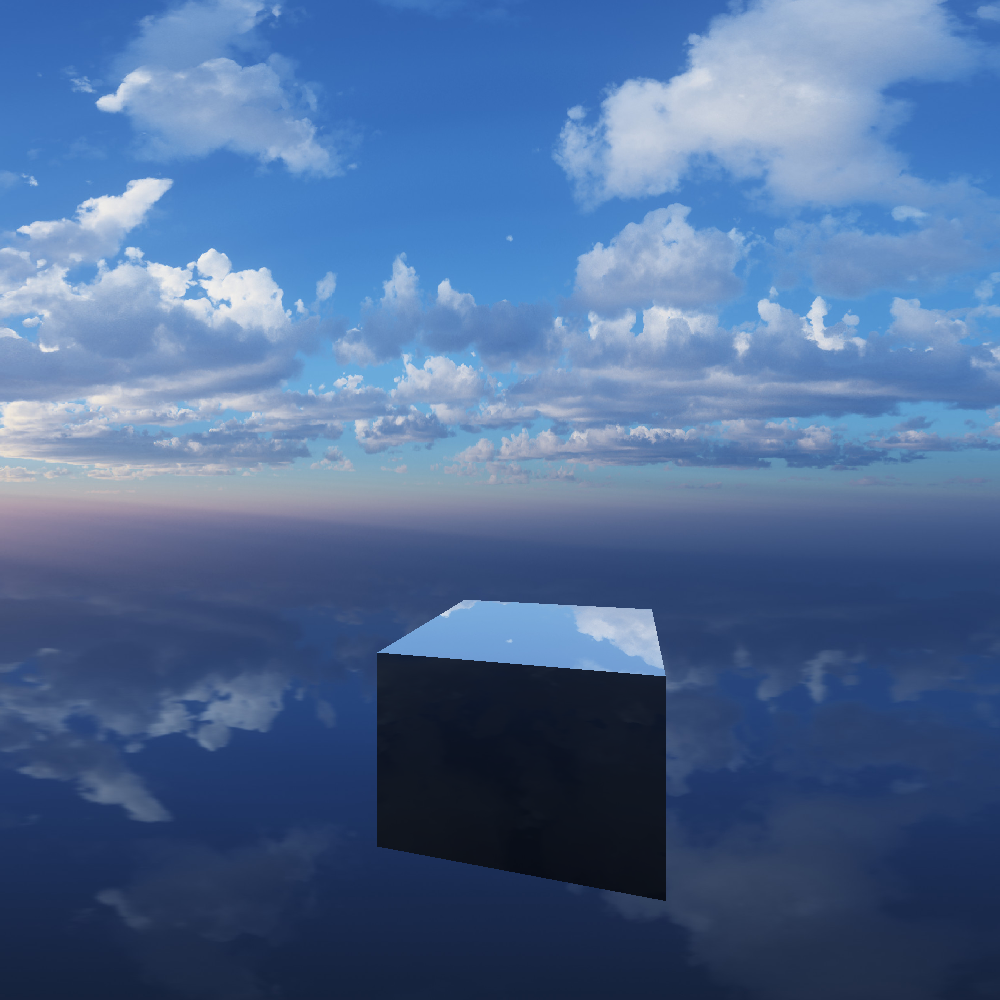
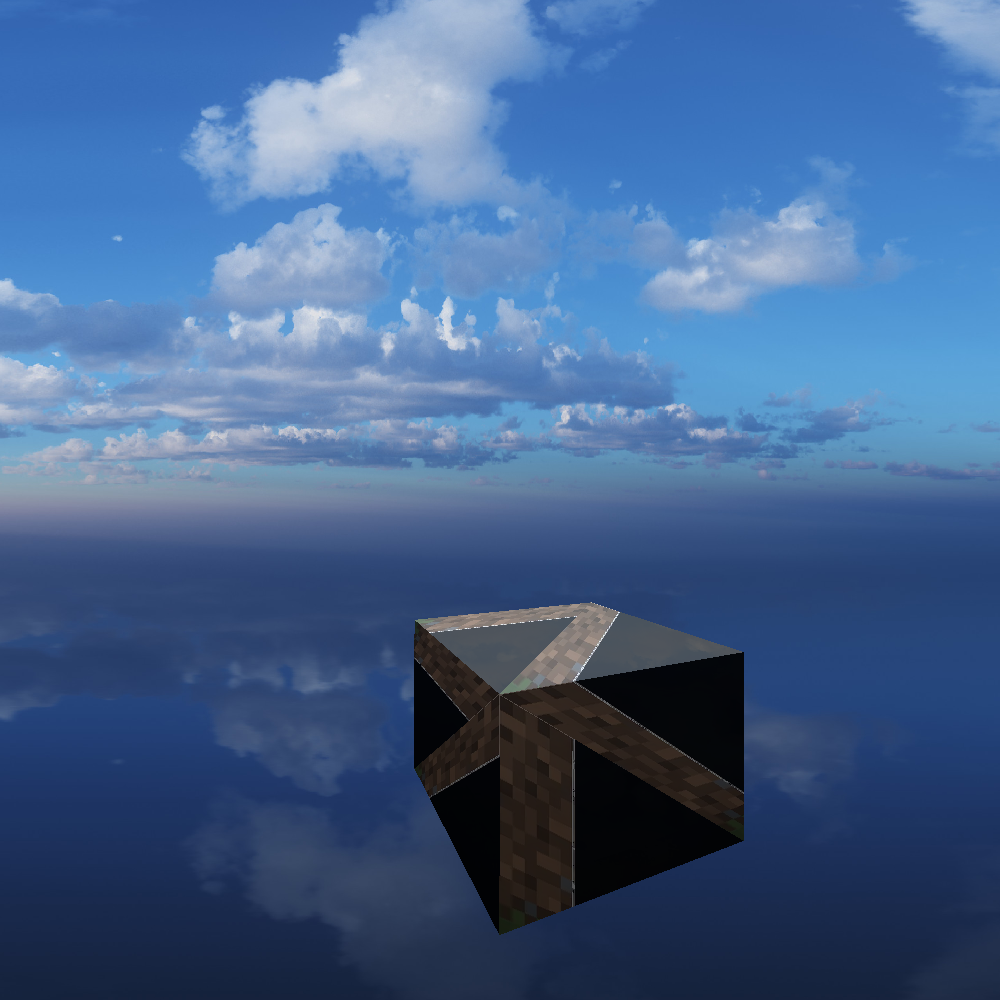
Temp

diff --git a/dev/src/preprocessing/obj_parser.c b/dev/src/preprocessing/obj_parser.c
@@ -13,6 +13,7 @@ void load_object(char* path, world* w, float scale, float pos[3], char* texture_
     int vert = 0;
     int tri = 0;
     int text_vert = 0;
+    int norm_vert = 0;
     //size_t norm = 0;
     //size_t texture = 0;
 
@@ -26,6 +27,8 @@ void load_object(char* path, world* w, float scale, float pos[3], char* texture_
                 vert++;
             if(line[1] == 't')
                 text_vert++;
+            if(line[1] == 'n')
+                norm_vert++;
         }
         else if (line[0] == 'f')
         {
@@ -43,13 +46,12 @@ void load_object(char* path, world* w, float scale, float pos[3], char* texture_
         return;
     }
     
-    printf("TEXT CVERT %d\n", text_vert);
-    mesh* new_mesh = build_mesh(vert, tri, text_vert);
+    mesh* new_mesh = build_mesh(vert, tri, text_vert, norm_vert);
     fseek(file, 0, SEEK_SET);
 
     float v[3];
     float vn[3];
-    int vt[2];
+    float vt[2];
     while(fgets(line, sizeof(line), file) != NULL)
     {
         if (line[0] == 'v')
@@ -61,29 +63,29 @@ void load_object(char* path, world* w, float scale, float pos[3], char* texture_
                 add_v(new_mesh, v);
             }
             if(line[1] == 't'){
-                sscanf(line, "vt %i %i", &vt[0], &vt[1]);
+                sscanf(line, "vt %f %f", &vt[0], &vt[1]);
                 add_vt(new_mesh, vt);
             }
             if(line[1] == 'n'){
                 sscanf(line, "vn %f %f %f", &vn[0], &vn[1], &vn[2]);
-                add_vt(new_mesh, vt);
+                add_vn(new_mesh, vn);
             }
         }
 
         if (line[0] == 'f' && line[1] == ' ')
         {
-            int nb_v;
+            int nb_v = 0;
             // v vt vn
             int* vs[3] = {NULL,NULL,NULL} ;
             int cur_v = 0;
             int cur_nb = 0;
-            int i = 2;
+            int i = 1;
             while (line[i] != '\0' && line[i] != '\r')
             {
                 switch (line[i])
                 {
                 case '/':
-                    vs[cur_v][nb_v] = cur_nb;
+                    vs[cur_v][nb_v-1] = cur_nb;
                     cur_v++;
                     cur_nb = 0;
                     break;
@@ -96,8 +98,12 @@ void load_object(char* path, world* w, float scale, float pos[3], char* texture_
                     break;
                 default:
                     int val = atoi(&line[i]);
-                    cur_nb*=10;
-                    cur_nb+=val;
+                    cur_nb = val;
+                    val/=10;
+                    while(val != 0){
+                        val/=10;
+                        i++;
+                    }
                     break;
                 }
                 i++;
@@ -111,13 +117,13 @@ void load_object(char* path, world* w, float scale, float pos[3], char* texture_
                 v[1] = vs[0][j+1] -1;
                 v[2] = vs[0][j+2] -1;
 
-                vt[0] = vs[1][j];
-                vt[0] = vs[1][j+1];
-                vt[0] = vs[1][j+2];
+                vt[0] = vs[1][j] - 1;
+                vt[1] = vs[1][j+1] - 1;
+                vt[2] = vs[1][j+2] - 1;
 
-                vn[0] = vs[2][j];
-                vn[0] = vs[2][j+1];
-                vn[0] = vs[2][j+2];
+                vn[0] = vs[2][j] - 1;
+                vn[1] = vs[2][j+1] - 1;
+                vn[2] = vs[2][j+2] - 1;
                 add_tri(new_mesh, v, vt, vn);
             }
             for (int i = 0; i < 3; i++)

diff --git a/dev/src/render/triangle_renderer.c b/dev/src/render/triangle_renderer.c
@@ -1,4 +1,39 @@
 #include "../../include/render/triangle_renderer.h"
+
+void get_pixel_color(SDL_Surface* surface, int x, int y, Uint8* r, Uint8* g, Uint8* b)
+{
+  /*
+  Retrieve the address to a specific pixel
+  pSurface->pixels  = an array containing the SDL_Surface' pixels
+  pSurface->pitch       = the length of a row of pixels (in bytes)
+  X and Y               = the offset on where on the image to retrieve the pixel; (0, 0) is the upper left corner
+  */
+  Uint32 pixel = *( (Uint32*)surface->pixels + y * surface->w + x ) ;
+  SDL_GetRGB(pixel, surface->format, r, g, b);
+}
+
+void get_color_at(ray* ry, float pos[3], triangle* tri, float* color, float u, float v, float w){
+    mesh* m = ry->current_mesh;
+    if(m->texture == NULL){
+        color[0] = 1;
+        color[1] = 1;
+        color[2] = 1;
+        return;
+    }
+    float* pt0 = m->texture_vertices[tri->vt[0]];
+    float* pt1 = m->texture_vertices[tri->vt[1]];
+    float* pt2 = m->texture_vertices[tri->vt[2]];
+    float x = (pt0[0]*v + pt1[0]*u + pt2[0]*w);
+    float y = (pt0[1]*v + pt1[1]*u + pt2[1]*w);
+    int px = (int)(x * m->texture->w);
+    int py = (int)(y * m->texture->h);
+    Uint8 r, g, b;
+    get_pixel_color(m->texture, px, py, &r, &g, &b);
+    color[0] = r/255.0;
+    color[1] = g/255.0;
+    color[2] = b/255.0;
+}
+
 int triangle_render(triangle* tri, ray* r){
     mesh* m = r->current_mesh;
     float EPSILON = 0.0000001;
@@ -38,7 +73,11 @@ int triangle_render(triangle* tri, ray* r){
             val*=-1;
         if(val > 1)
             val = 1;
-        ray_update_result(r, tri, t, (float[3]){val*1, val*.2, val*.2}, normal, r->current_mesh->reflectivity);
+        float color[3], pos[3];
+        scale(r->dir, t, pos);
+        get_color_at(r, pos, tri, color, u, v, 1-u-v);
+        //scale(color, val, color);
+        ray_update_result(r, tri, t, color, normal, r->current_mesh->reflectivity);
         return 1; // Hit, win
     }
     // This means that there is a line intersection but not a ray intersection. 

diff --git a/dev/src/preprocessing/mesh_builder.c b/dev/src/preprocessing/mesh_builder.c
@@ -7,8 +7,8 @@ void add_v(mesh * m, float v[3])
 	m->nb_vertices++;
 }
 
-void add_vt(mesh * m, int vt[2]){
-    m->texture_vertices[m->nb_texture_vertices] = malloc(sizeof(int)*2);
+void add_vt(mesh * m, float vt[2]){
+    m->texture_vertices[m->nb_texture_vertices] = malloc(sizeof(float)*2);
     m->texture_vertices[m->nb_texture_vertices][0] = vt[0];
 	m->texture_vertices[m->nb_texture_vertices][1] = vt[1];
 	m->nb_texture_vertices++;
@@ -131,7 +131,7 @@ void add_tri(mesh* m, int v[3], int vt[3], int vn[3]){
     add_tri_to_bbox(m, m->box, m->depth, v, vt, vn);
     m->nb_triangles++;
 }
-mesh * build_mesh(int no_vert, int no_tri, int text_vert)
+mesh * build_mesh(int no_vert, int no_tri, int text_vert, int norm_vert)
 {
     mesh * m = (mesh *)malloc(sizeof(mesh));
     m->depth = compute_depth(no_tri-1);
@@ -141,7 +141,9 @@ mesh * build_mesh(int no_vert, int no_tri, int text_vert)
 	m->nb_vertices = 0;
     m->nb_triangles = 0;
     m->nb_texture_vertices = 0;
+    m->nb_normal_vertices = 0;
 	m->vertices = malloc(sizeof(float*)*no_vert);
-	m->normal_vertices = malloc(sizeof(float*)*text_vert);
+	m->texture_vertices = malloc(sizeof(float*)*text_vert);
+    m->normal_vertices = malloc(sizeof(float*)*norm_vert);
 	return m;
 }

diff --git a/dev/src/architecture/mesh.c b/dev/src/architecture/mesh.c
@@ -5,9 +5,12 @@ void free_mesh(mesh* msh){
     for(int i = 0; i < msh->nb_vertices; i++)
         free(msh->vertices[i]);
 
-    for(int i = 0; i < msh->nb_texture_vertices; i++)
+    for(int i = 0; i < msh->nb_normal_vertices; i++)
         free(msh->normal_vertices[i]);
+    for(int i = 0; i < msh->nb_texture_vertices; i++)
+        free(msh->texture_vertices[i]);
     free(msh->normal_vertices);
+    free(msh->texture_vertices);
     free(msh->vertices);
     if(msh->texture != NULL)
         SDL_FreeSurface(msh->texture);

diff --git a/dev/src/main.c b/dev/src/main.c
@@ -29,7 +29,7 @@ int main(){
     // add_sphere(wd, s);
     // CHALLENGE : load_object("assets/objs/bunny.obj", wd, 10, (float[]){0,0,0}, .1);
     //1166 875 -> 388, 218
-    load_object("./assets/objs/cube.obj", wd, 1, (float[]){0,0,0}, "./assets/textures/dirt.webp", 1);
+    load_object("./assets/objs/grass.obj", wd, 1, (float[]){0,0,0}, "./assets/textures/grass.png", .2);
     light* lt = init_light((float[]){0,5,0}, (float[]){1,1,1}, 1);
     add_light(wd, lt);
 

diff --git a/dev/include/preprocessing/mesh_builder.h b/dev/include/preprocessing/mesh_builder.h
@@ -2,8 +2,8 @@
 #ifndef MESH_BUILDER_H
 #define MESH_BUILDER_H
 void add_v(mesh * m, float p[3]);
-void add_vt(mesh * m, int vt[2]);
+void add_vt(mesh * m, float vt[2]);
 void add_vn(mesh * m, float vt[3]);
 void add_tri(mesh* m, int v[3], int vt[3], int vn[3]);
-mesh * build_mesh(int no_vert, int no_trim, int text_vert);
+mesh * build_mesh(int no_vert, int no_trim, int text_vert, int norm_text);
 #endif

diff --git a/dev/include/architecture/mesh.h b/dev/include/architecture/mesh.h
@@ -15,7 +15,7 @@
     float** vertices;
     
     int nb_texture_vertices;
-    int** texture_vertices;
+    float** texture_vertices;
 
 
     int nb_normal_vertices;
